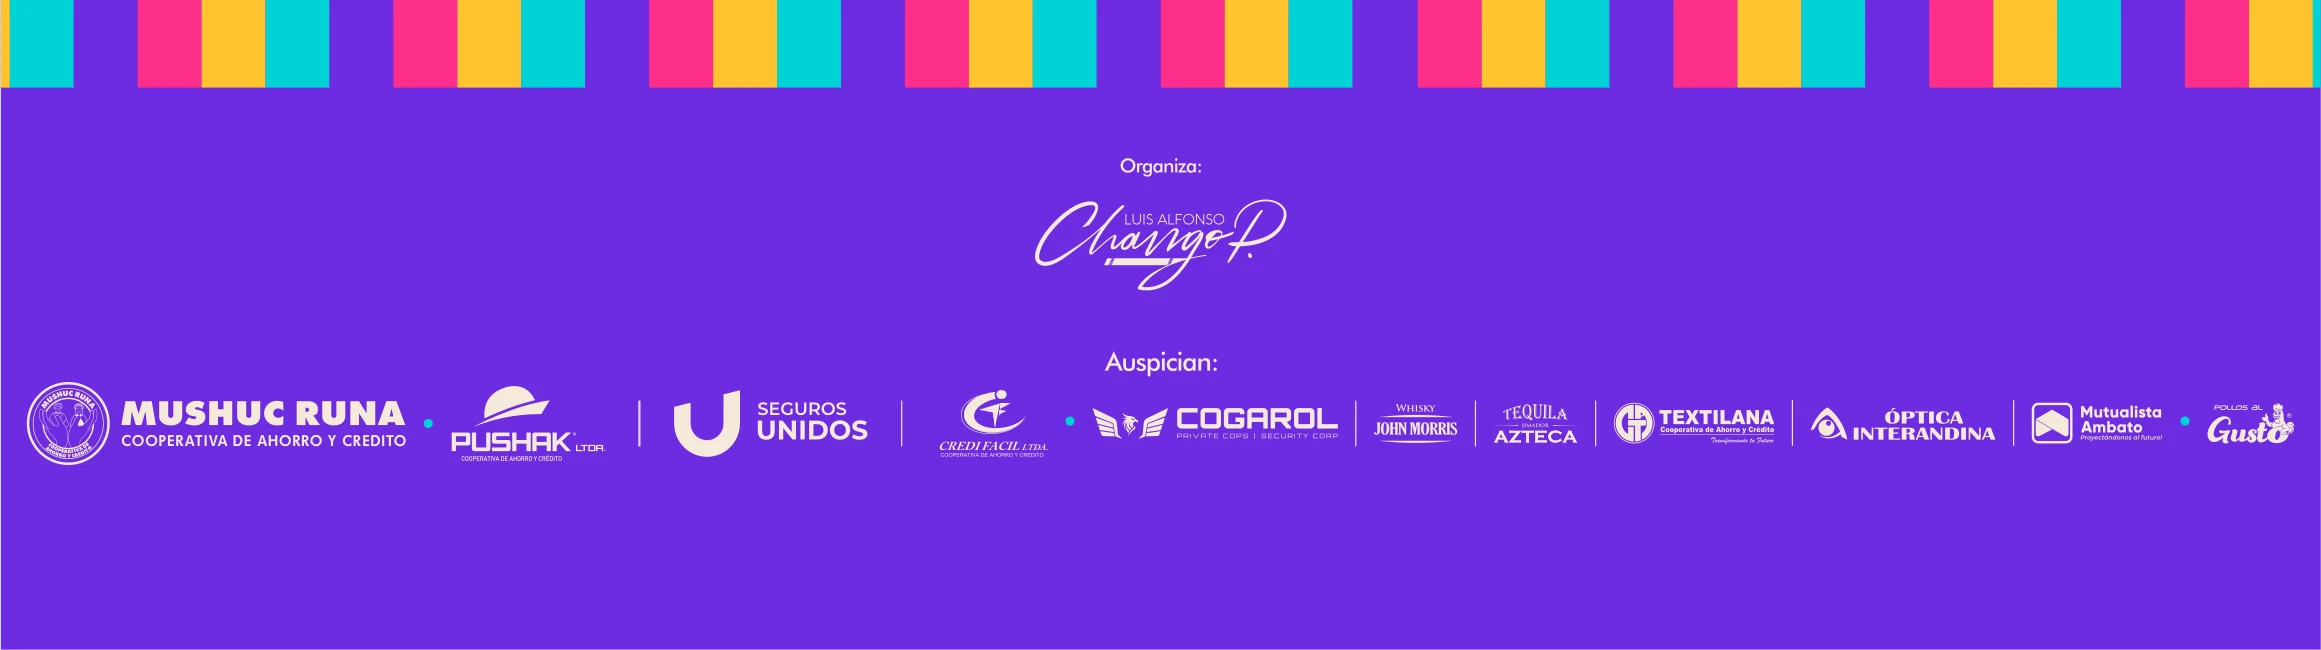
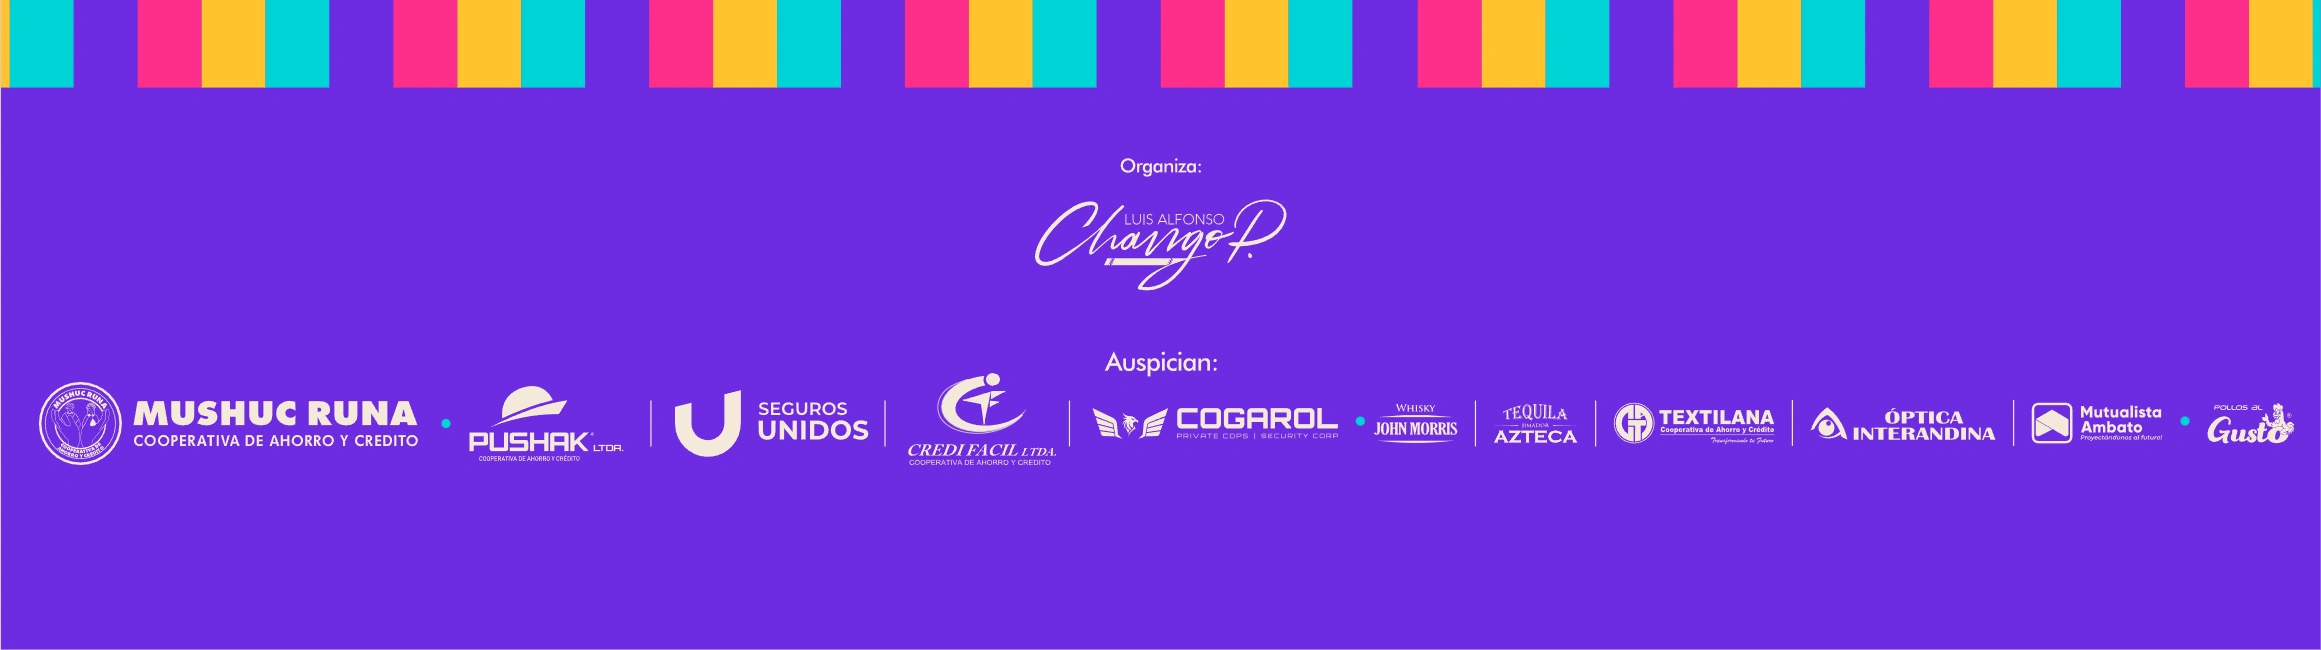
Ajustar arte final de Las Ñañas y auspiciantes

Changed region(s): [[0.0, 0.5846, 0.3723, 0.7077], [0.3723, 0.5538, 0.4653, 0.7385]]

diff --git a/vault/11_eventos/2026_feria-finados/10_tecnologia-datos/2026-09-22_correccion-final-las-nanas-disposicion-auspiciantes-web_v01.md b/vault/11_eventos/2026_feria-finados/10_tecnologia-datos/2026-09-22_correccion-final-las-nanas-disposicion-auspiciantes-web_v01.md
@@ -1,0 +1,35 @@
+---
+titulo: "Corrección final de Las Ñañas y disposición de auspiciantes"
+responsable: "tecnología/diseño"
+estado: listo_para_publicar
+ultima_actualizacion: 2026-09-22
+fuente: "Cuatro referencias visuales entregadas por Alex el 22 de septiembre de 2026"
+confidencialidad: interno
+tags: [feria-finados-2026, tecnologia, web, dignidades, auspiciantes]
+---
+
+# Corrección final de Las Ñañas y disposición de auspiciantes
+
+Relacionado: [[2026-09-22_correccion-las-nanas-cache-auspiciantes-web_v01|Corrección de Las Ñañas y renovación de auspiciantes web]].
+
+## Alcance
+
+Alex indicó que la reconstrucción anterior de Las Ñañas había perdido parte del estilo, que la fotografía debía ser más grande, que las tipografías del arte debían respetarse y que el tramo central de auspiciantes debía seguir la disposición mostrada en su tercera referencia: `Credi Fácil | Cogarol · John Morris`.
+
+## Implementación
+
+- El arte de Las Ñañas fue sustituido por la composición final completa entregada por Alex en su cuarta referencia. La foto ocupa el marco blanco, y corona, logotipos, rótulos y tipografías quedan integrados en una sola imagen para evitar sustituciones tipográficas del navegador.
[2 lines of base64/hex data omitted]
+- Cachés renovadas a `20260922-dignities-3` y `20260922-sponsors-5` en Finados y SHOWS.
+
+## Validación previa
+
+- TDD específico: 15 pruebas aprobadas para orden, activos, hashes, build y referencias versionadas.
+- `npm run check` completo: 166 pruebas Node, 21 suites PHP y 10 pruebas de integración; build de 152 archivos, 40 HTML y 1.343 referencias válidas.
+- QA visual real con Edge en 1440 × 1000 y 390 × 844: Las Ñañas carga a 1080 × 1350, auspiciantes a 2321 × 650, versiones nuevas presentes y sin desbordamiento horizontal.
+- No se modificaron backend, base de datos, migraciones, DNS, formularios, Google Sheets ni datos personales.
+
+## Publicación
+
+Pendiente de integrar en `main`, publicar el frontend y comprobar por HTTPS los archivos finales.
